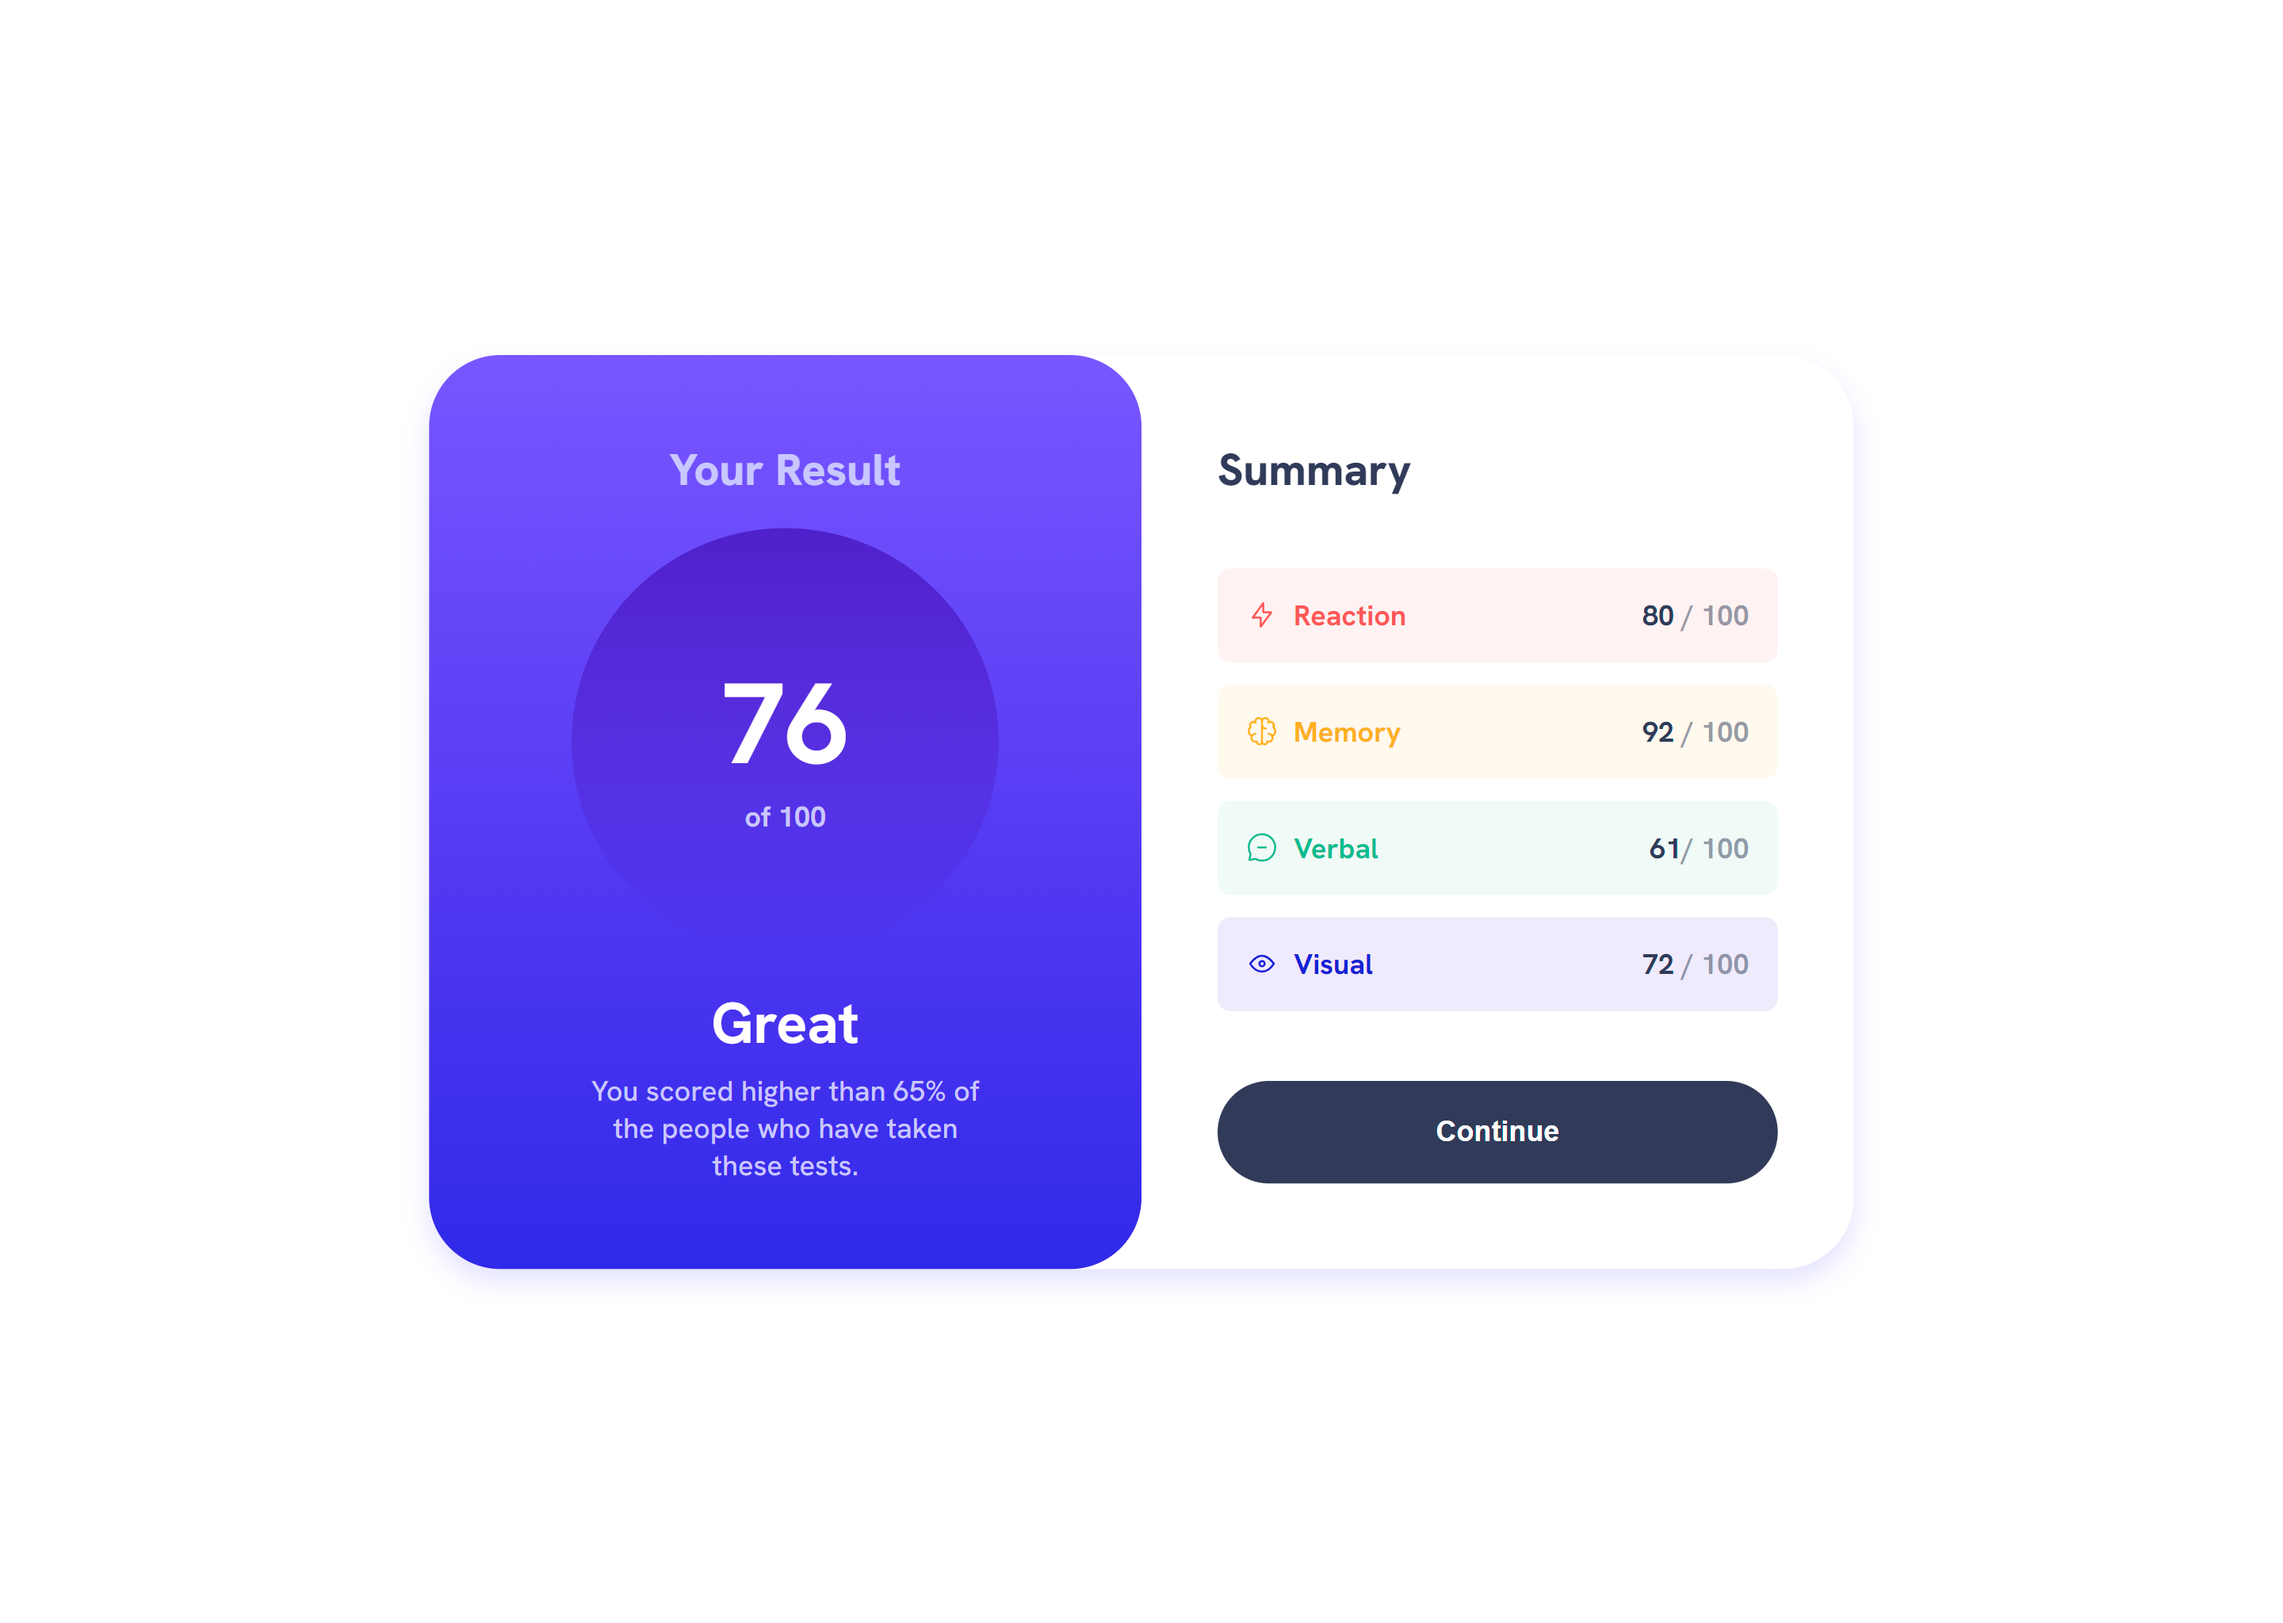
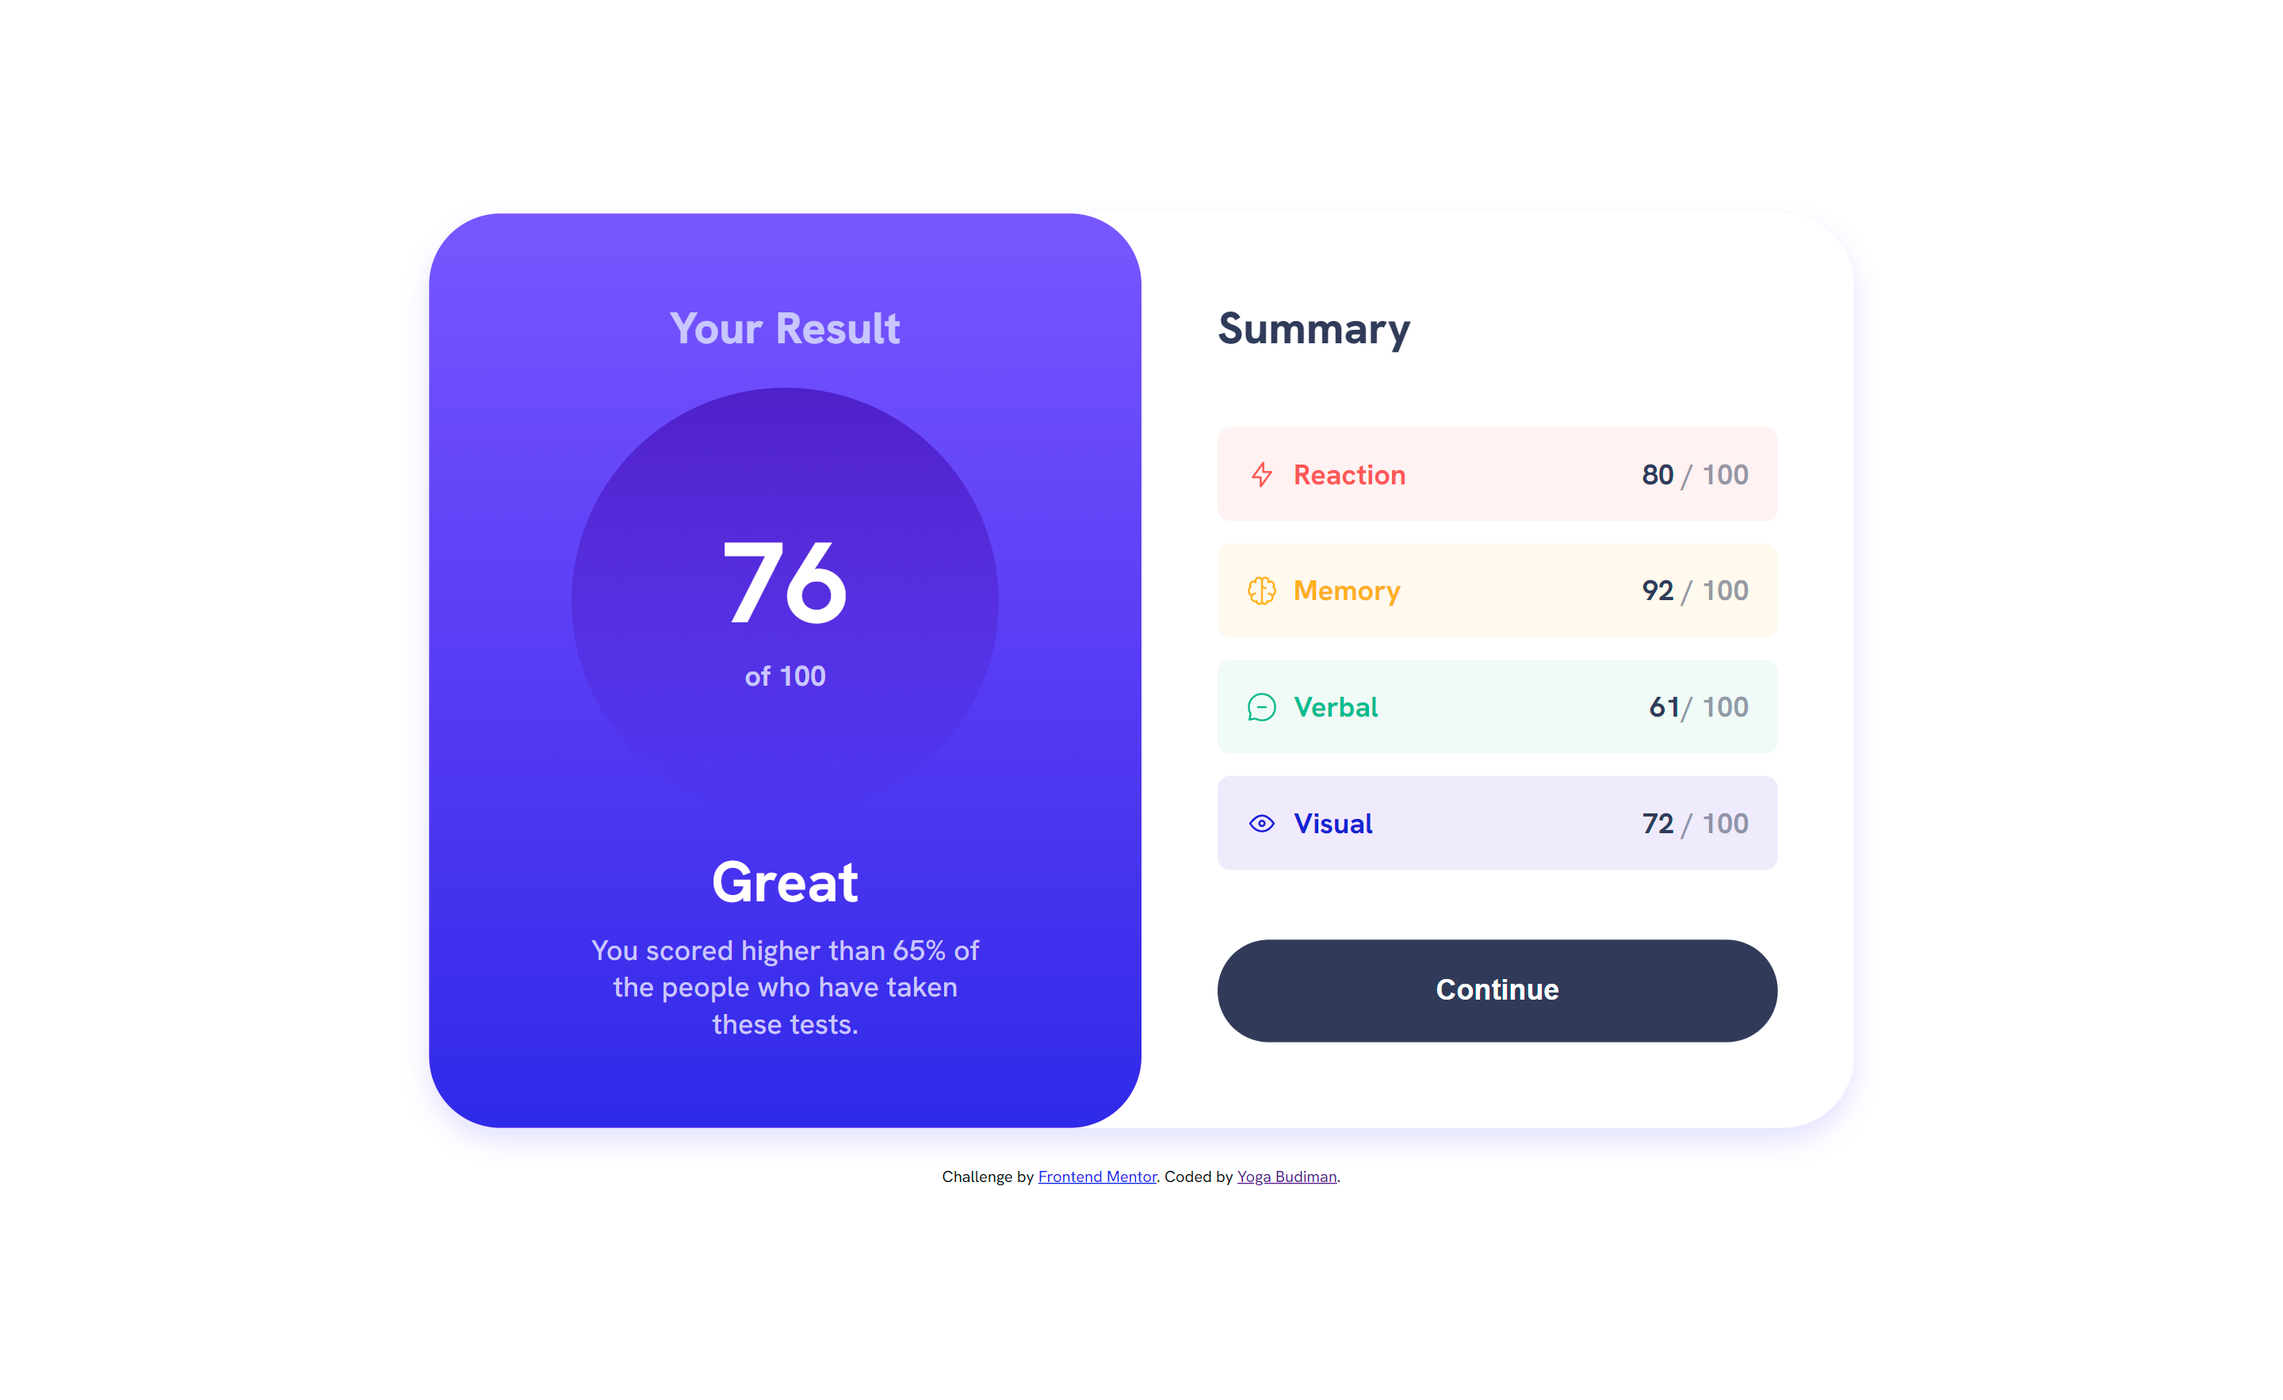
Updating screenshot

diff --git a/index.html b/index.html
@@ -20,84 +20,87 @@
 
   <body>
     <main class="main-container grid">
-      <article class="result-summary-container flex">
-        <div class="result-container container flex">
-          <div class="main-heading">
-            <h1 class="heading-primary">Your Result</h1>
+      <div>
+        <article class="result-summary-container flex">
+          <div class="result-container container flex">
+            <div class="main-heading">
+              <h1 class="heading-primary">Your Result</h1>
+            </div>
+
+            <div class="result-score">
+              <p class="score">76 <span class="score-index">of 100</span></p>
+            </div>
+
+            <div class="result-description flex">
+              <p class="score-class">Great</p>
+              <p class="score-description">
+                You scored higher than 65% of the people who have taken these
+                tests.
+              </p>
+            </div>
           </div>
 
-          <div class="result-score">
-            <p class="score">76 <span class="score-index">of 100</span></p>
-          </div>
+          <div class="summary-container container flex">
+            <div class="sub-heading">
+              <h2 class="heading-secondary">Summary</h2>
+            </div>
 
-          <div class="result-description flex">
-            <p class="score-class">Great</p>
-            <p class="score-description">
-              You scored higher than 65% of the people who have taken these
-              tests.
-            </p>
+            <div class="summary-breakdown-container flex">
+              <div class="summary summary-reaction grid grid--2-cols">
+                <div class="reaction flex">
+                  <img src="./assets/images/icon-reaction.svg" alt="" />Reaction
+                </div>
+                <span class="summary-score"
+                  >80 <span class="summary-score-index">/ 100</span></span
+                >
+              </div>
+
+              <div class="summary summary-memory grid grid--2-cols">
+                <div class="memory flex">
+                  <img src="./assets/images/icon-memory.svg" alt="" />Memory
+                </div>
+                <span class="summary-score"
+                  >92 <span class="summary-score-index">/ 100</span></span
+                >
+              </div>
+
+              <div class="summary summary-verbal grid grid--2-cols">
+                <div class="verbal flex">
+                  <img
+                    src="./assets/images/icon-verbal.svg"
+                    alt=""
+                    class="memory-icon"
+                  />
+                  Verbal
+                </div>
+                <span class="summary-score"
+                  >61<span class="summary-score-index">/ 100</span></span
+                >
+              </div>
+
+              <div class="summary summary-visual grid grid--2-cols">
+                <div class="visual flex">
+                  <img src="./assets/images/icon-visual.svg" alt="" />Visual
+                </div>
+                <span class="summary-score"
+                  >72 <span class="summary-score-index">/ 100</span></span
+                >
+              </div>
+            </div>
+
+            <div class="action-button">
+              <button class="btn">Continue</button>
+            </div>
           </div>
+        </article>
+
+        <div class="attribution">
+          Challenge by
+          <a href="https://www.frontendmentor.io?ref=challenge" target="_blank"
+            >Frontend Mentor</a
+          >. Coded by <a href="https://github.com/ygabdn29">Yoga Budiman</a>.
         </div>
-
-        <div class="summary-container container flex">
-          <div class="sub-heading">
-            <h2 class="heading-secondary">Summary</h2>
-          </div>
-
-          <div class="summary-breakdown-container flex">
-            <div class="summary summary-reaction grid grid--2-cols">
-              <div class="reaction flex">
-                <img src="./assets/images/icon-reaction.svg" alt="" />Reaction
-              </div>
-              <span class="summary-score"
-                >80 <span class="summary-score-index">/ 100</span></span
-              >
-            </div>
-
-            <div class="summary summary-memory grid grid--2-cols">
-              <div class="memory flex">
-                <img src="./assets/images/icon-memory.svg" alt="" />Memory
-              </div>
-              <span class="summary-score"
-                >92 <span class="summary-score-index">/ 100</span></span
-              >
-            </div>
-
-            <div class="summary summary-verbal grid grid--2-cols">
-              <div class="verbal flex">
-                <img
-                  src="./assets/images/icon-verbal.svg"
-                  alt=""
-                  class="memory-icon"
-                />
-                Verbal
-              </div>
-              <span class="summary-score"
-                >61<span class="summary-score-index">/ 100</span></span
-              >
-            </div>
-
-            <div class="summary summary-visual grid grid--2-cols">
-              <div class="visual flex">
-                <img src="./assets/images/icon-visual.svg" alt="" />Visual
-              </div>
-              <span class="summary-score"
-                >72 <span class="summary-score-index">/ 100</span></span
-              >
-            </div>
-          </div>
-
-          <div class="action-button">
-            <button class="btn">Continue</button>
-          </div>
-        </div>
-      </article>
+      </div>
     </main>
   </body>
 </html>
-<!-- <div class="attribution">
-        Challenge by
-        <a href="https://www.frontendmentor.io?ref=challenge" target="_blank"
-          >Frontend Mentor</a
-        >. Coded by <a href="#">Your Name Here</a>.
-      </div> -->

diff --git a/style.css b/style.css
@@ -248,6 +248,11 @@ body {
   transition: all 0.3s;
 }
 
+.attribution {
+  margin-top: 2.4rem;
+  text-align: center;
+}
+
 @media (max-width: 24em) {
   html {
     font-size: 56.25%;
@@ -306,5 +311,13 @@ body {
 
   .action-button {
     padding: 0 2.4rem 0 2.4rem;
+  }
+
+  /***********************/
+  /*Attribution*/
+  .attribution {
+    margin-top: 0.2rem;
+    padding-bottom: 0.8rem;
+    text-align: center;
   }
 }
